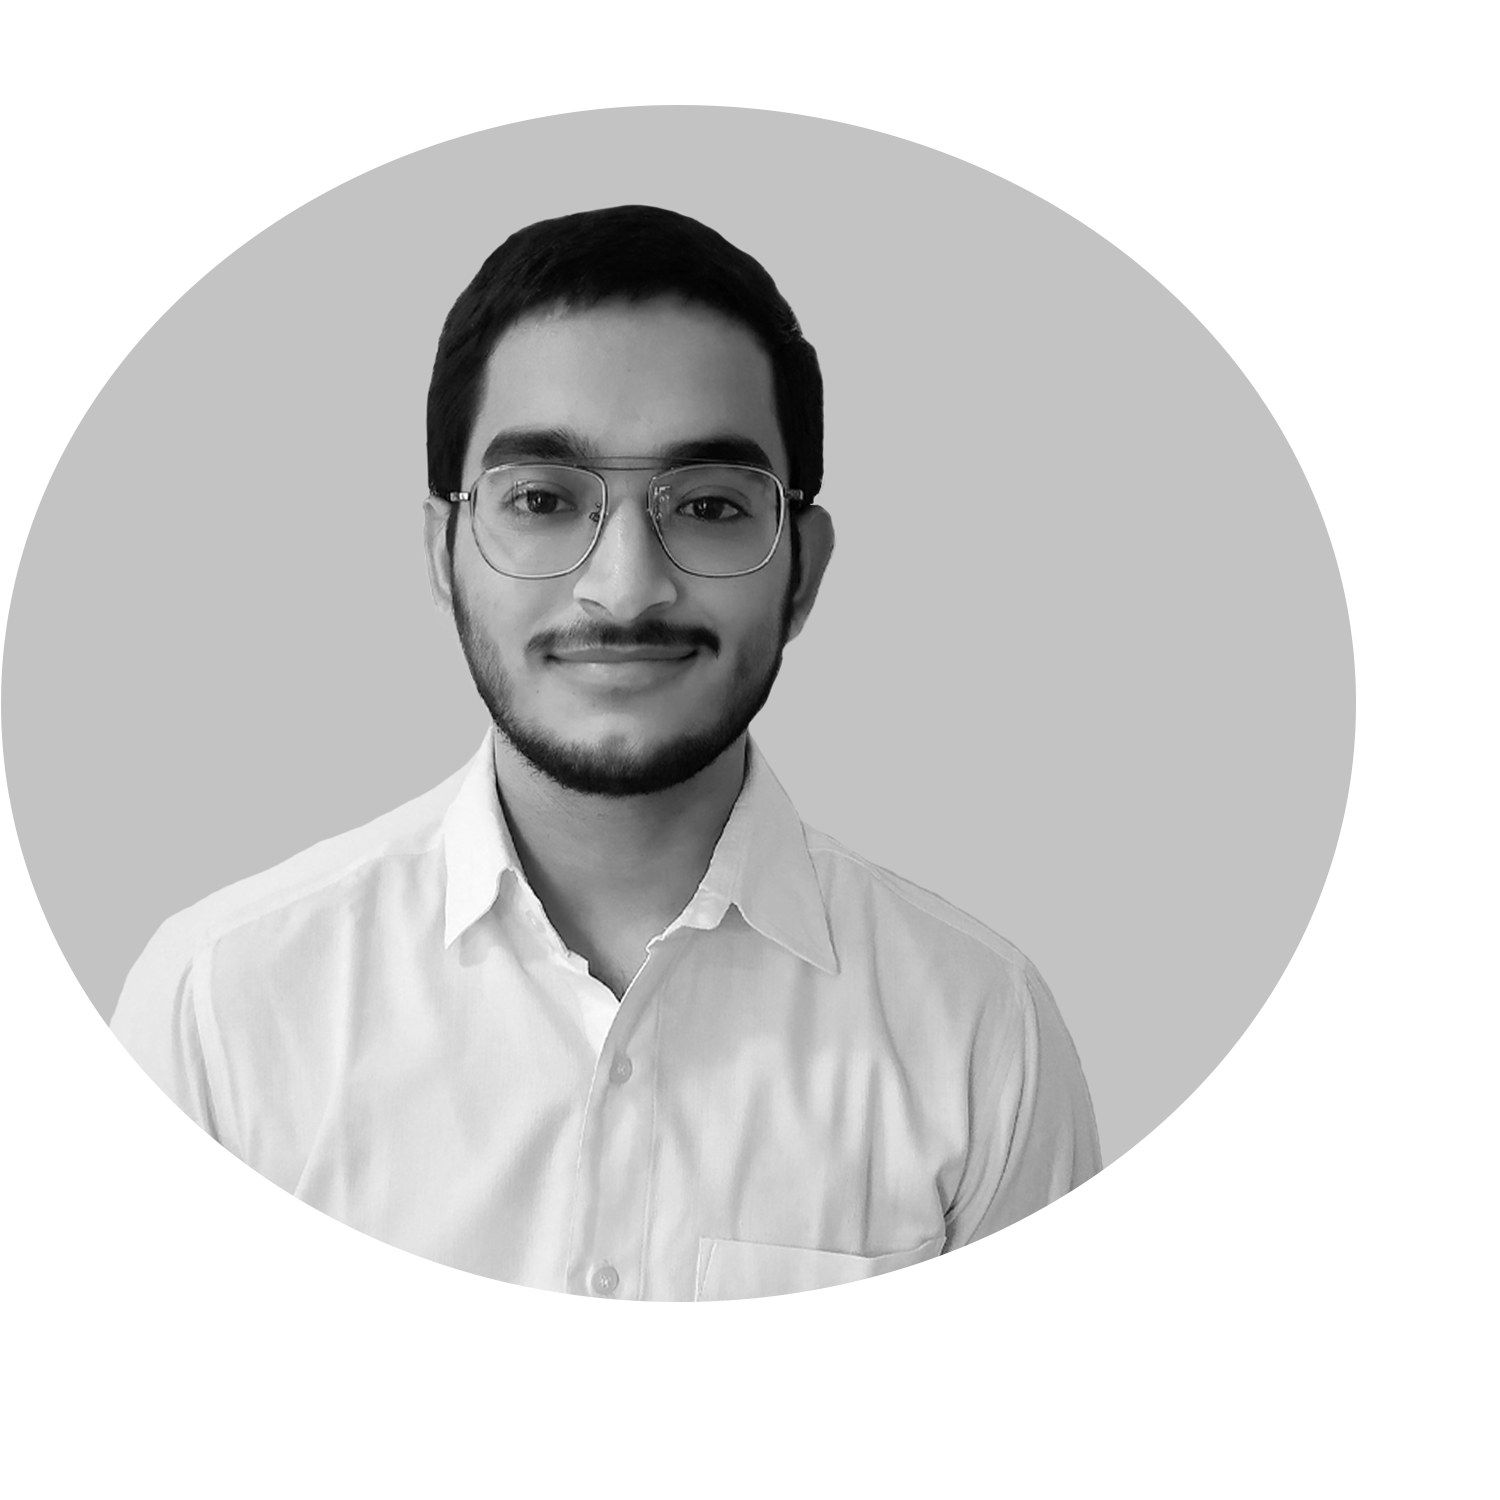
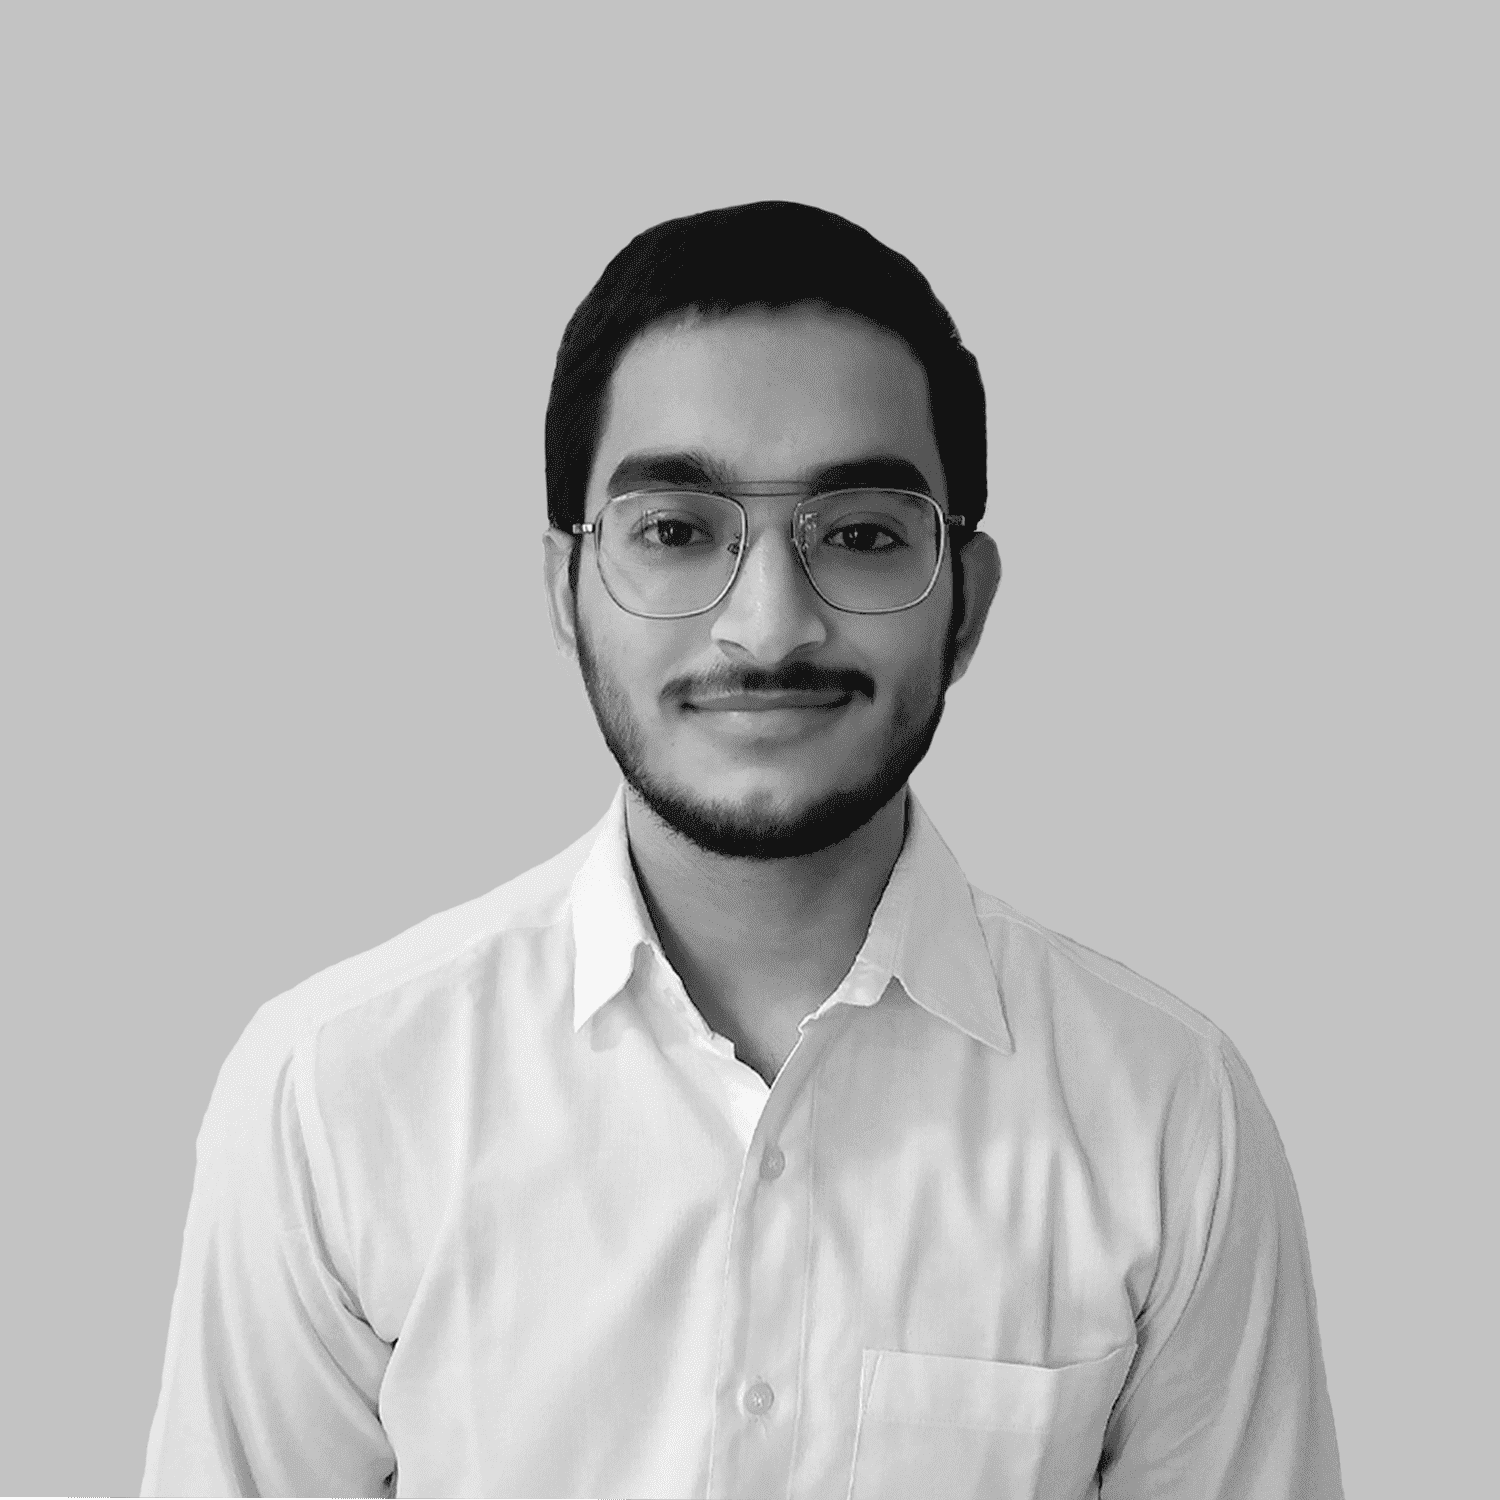
.

diff --git a/index.html b/index.html
@@ -105,7 +105,7 @@
     </div>
     <div class="p-2 justify-content-center partonediv" style="width: 100%;">
       <div class='innerimg center'>
-        <img class="profile" src="https://cdn.image4.io/github/f_auto/009c5bd9-4767-41f9-bc1c-29d2777ac70d.png" alt="Image" />
+        <img class="profile" src="Files/img/Chir.png" alt="Image" />
       </div>
     </div>
   </div>
